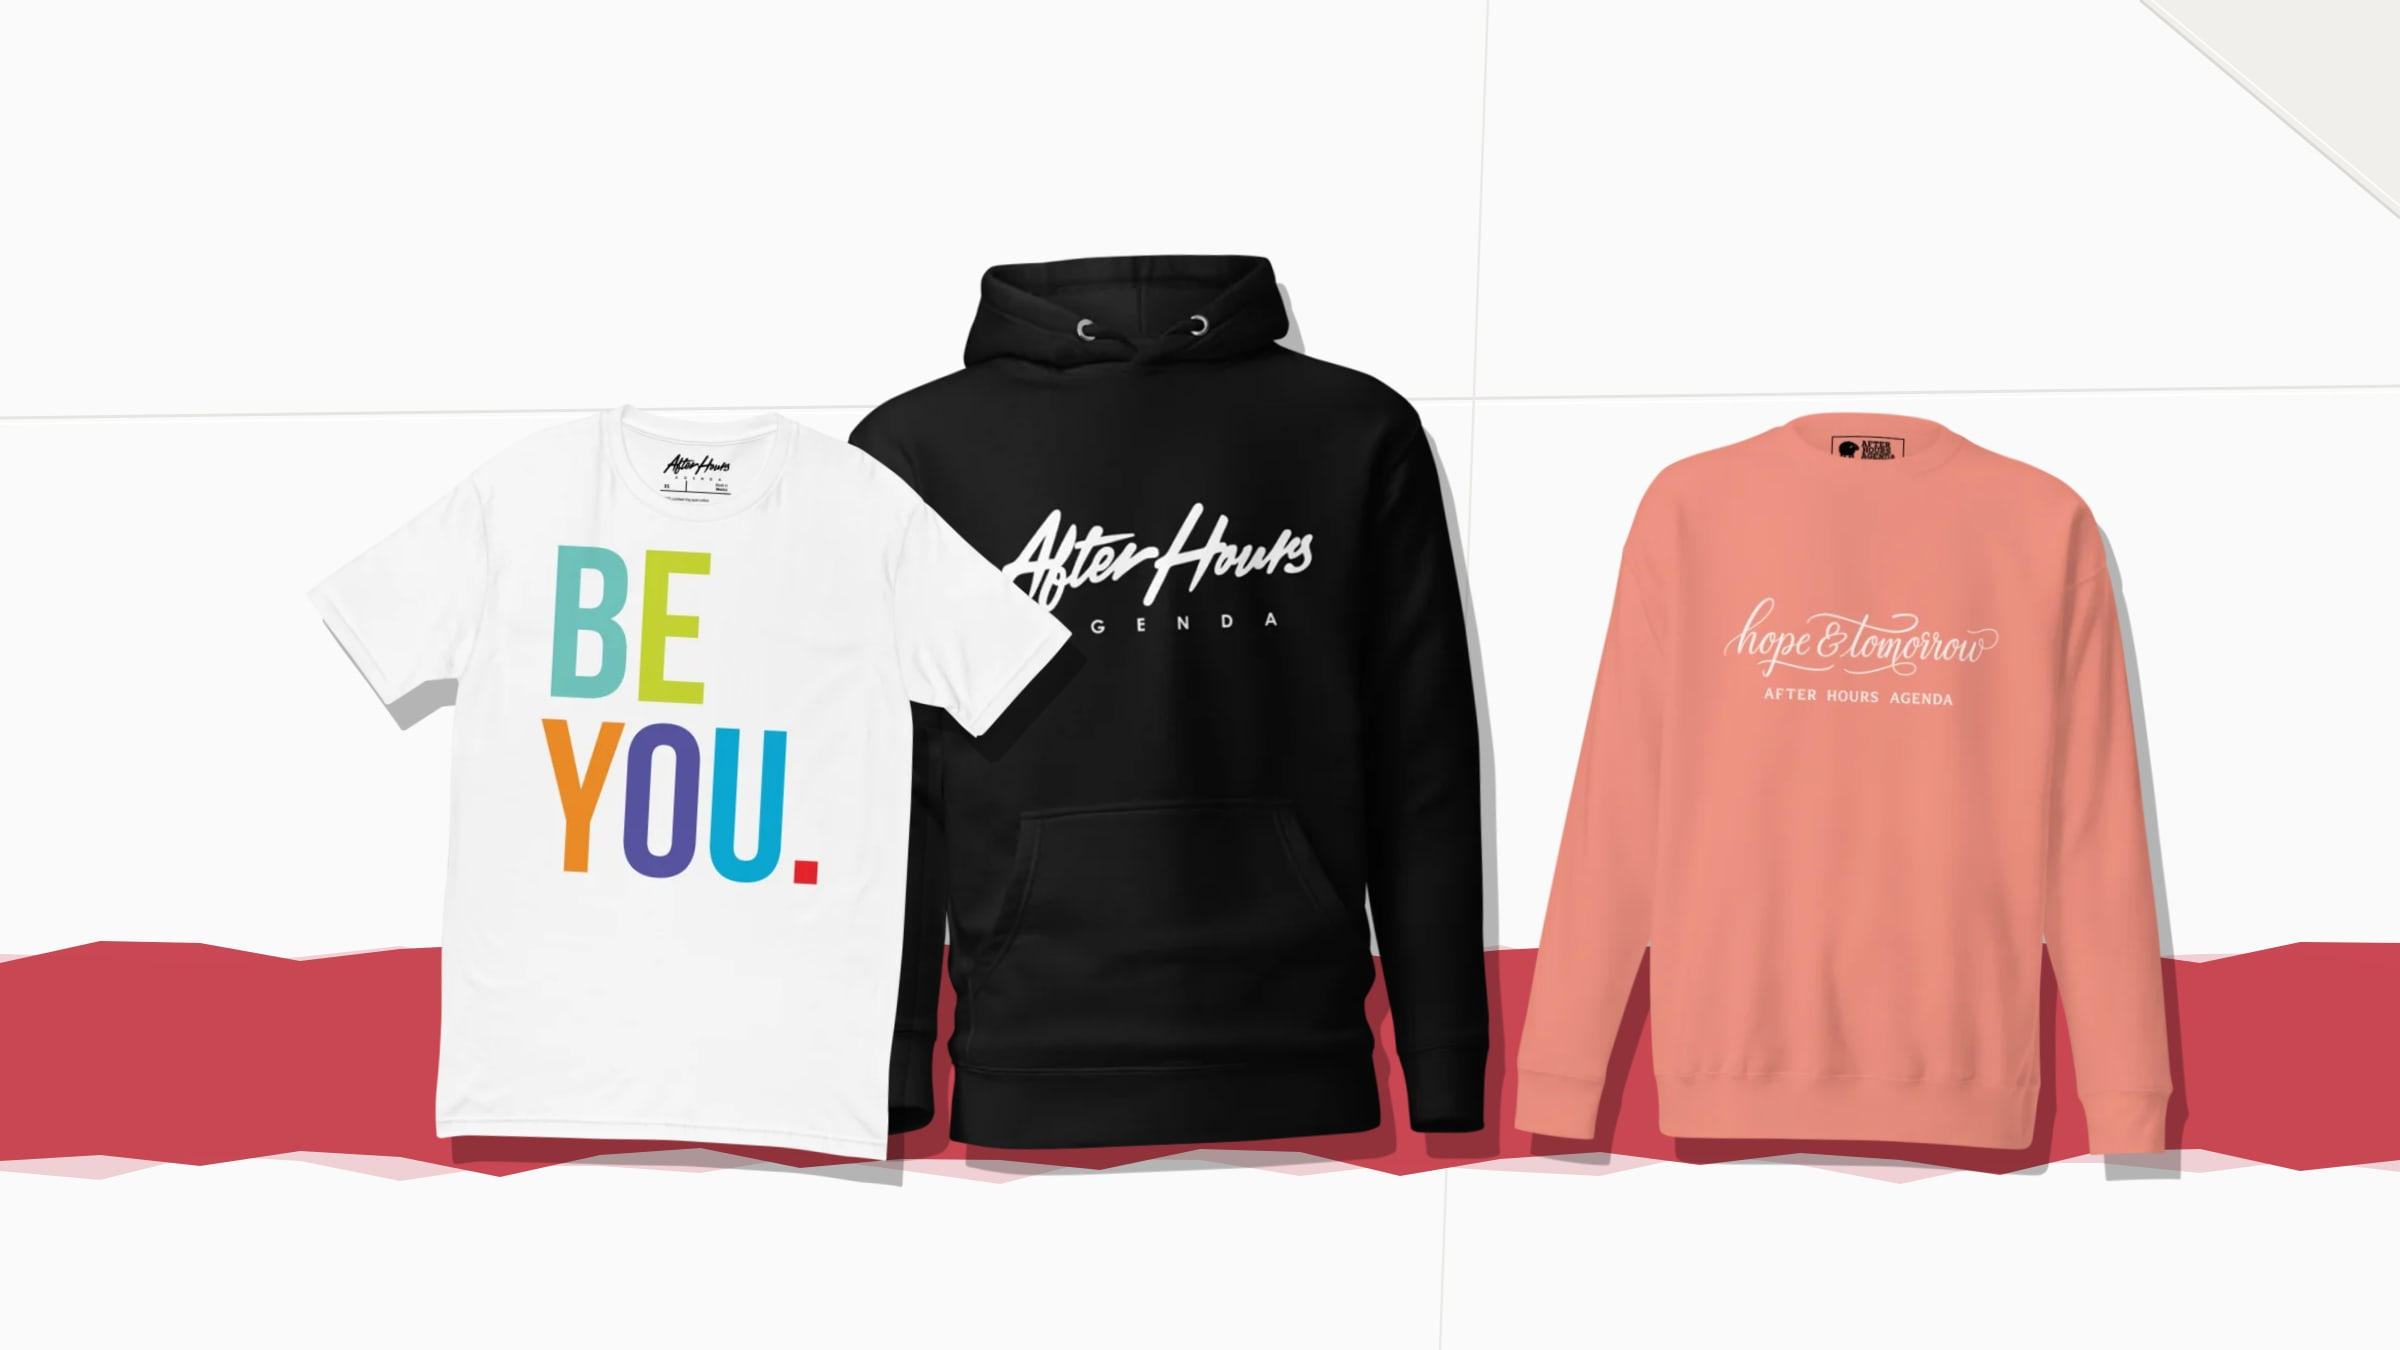
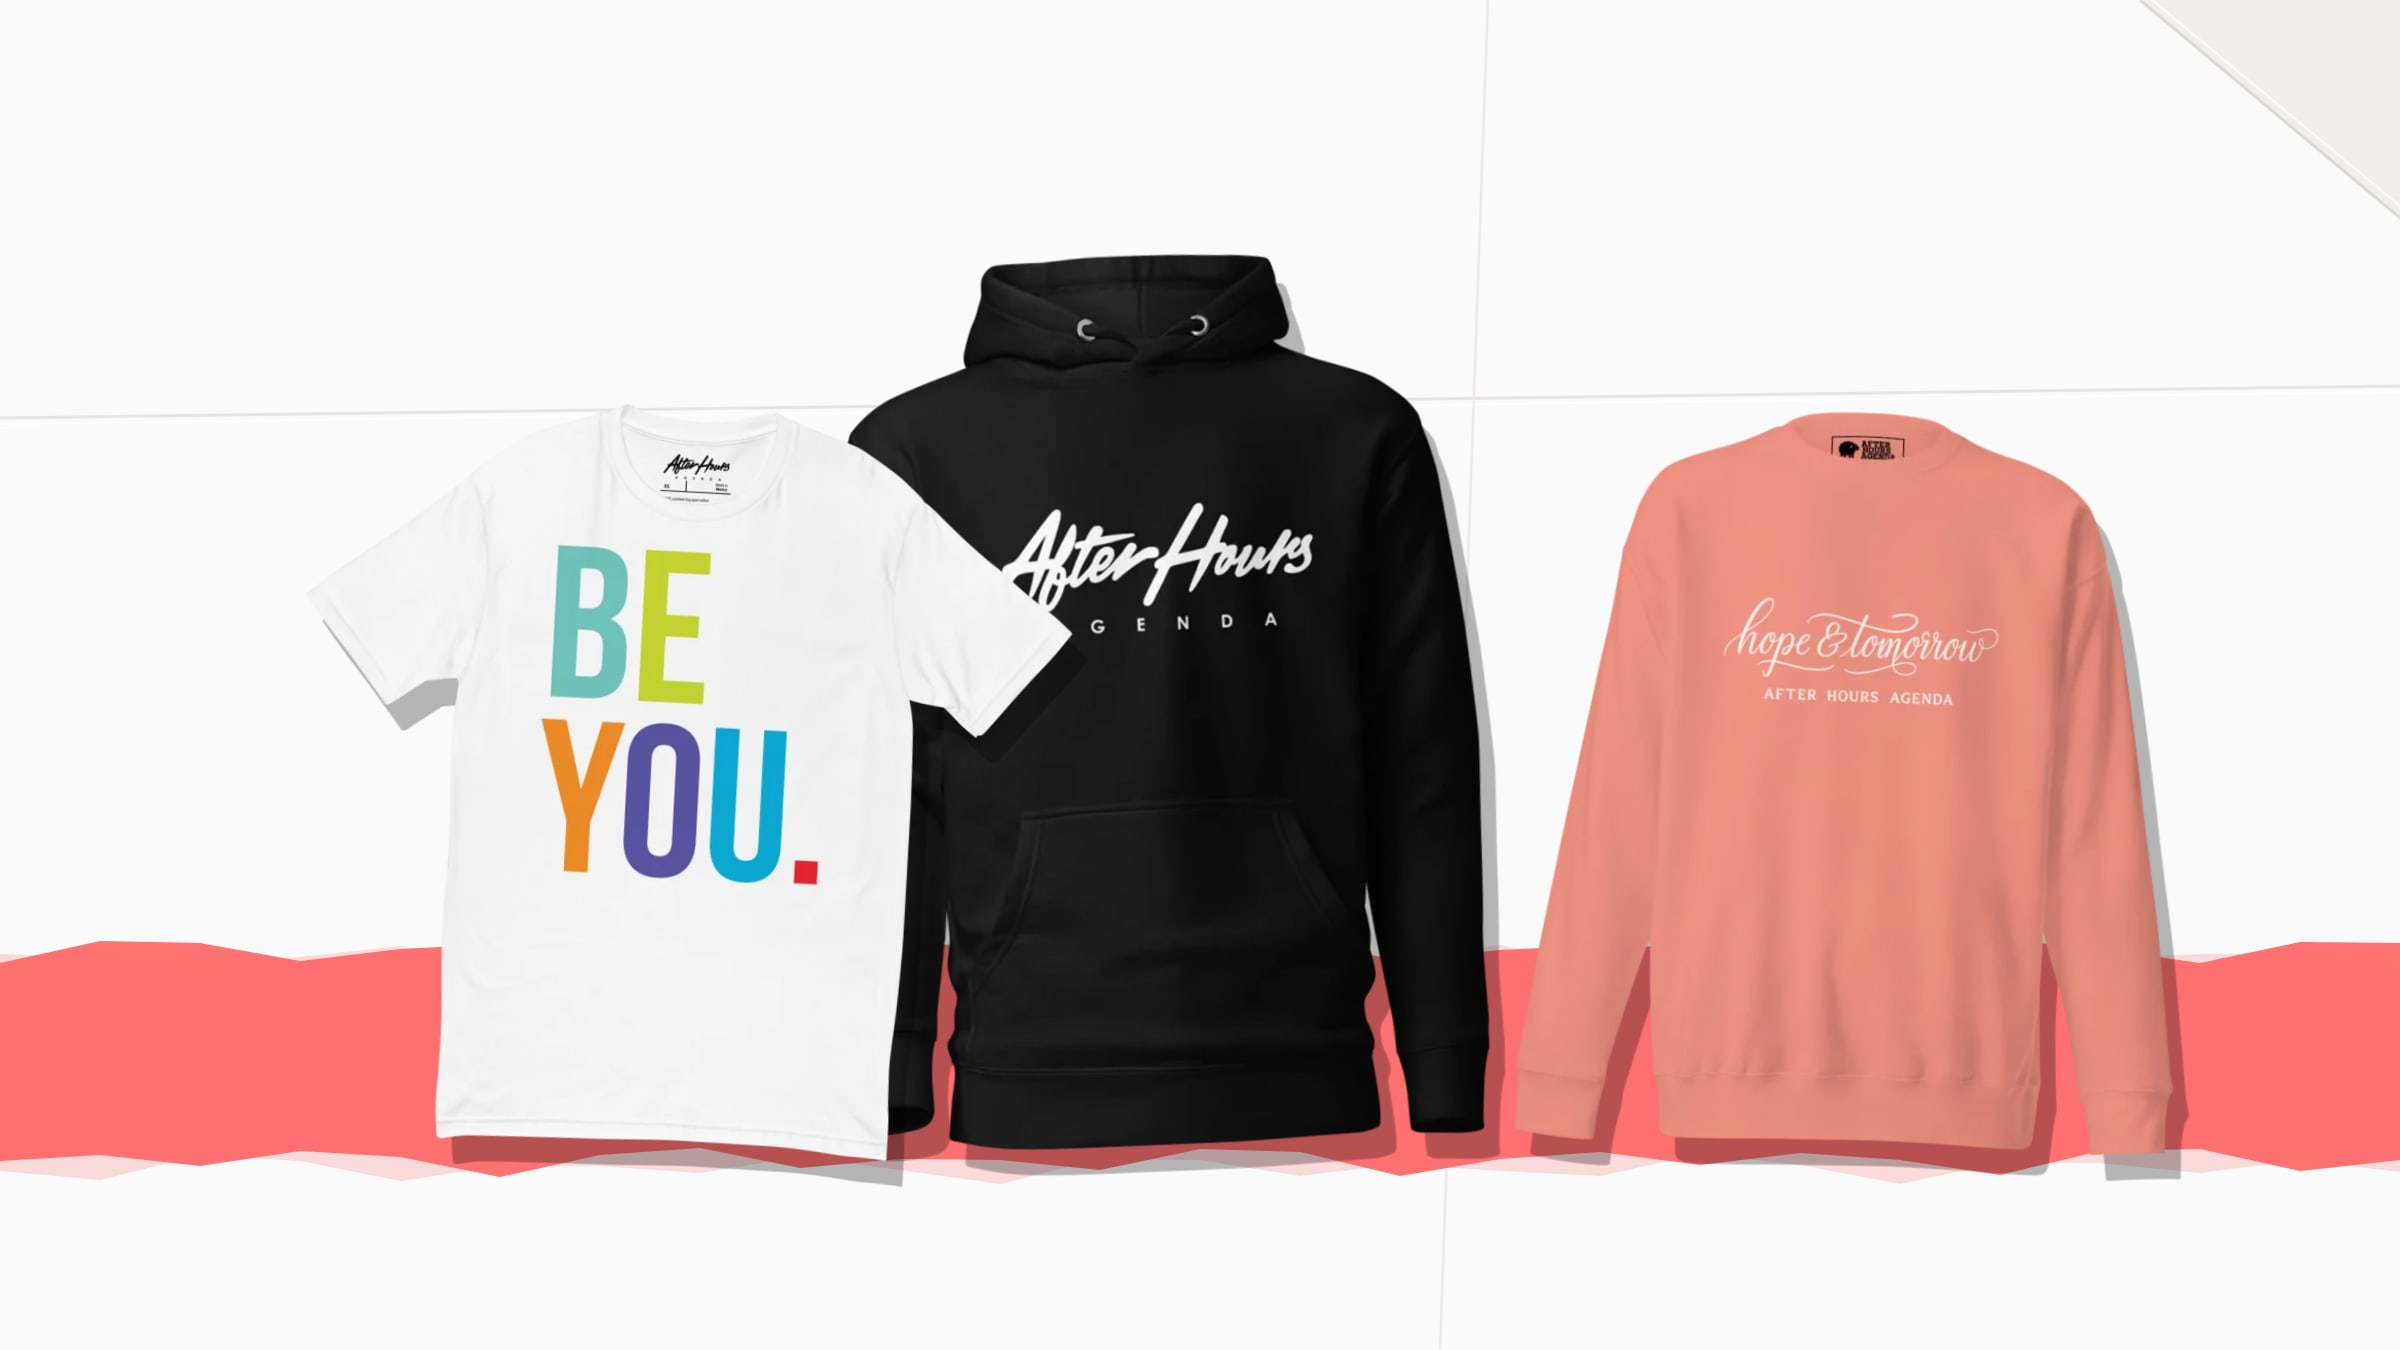
feat(color): restore the rose — Action Rose #CE3D56 (AA) for UI, true rose #FF6B6B campaign strips
- #FF6B6B measures 2.7:1 on paper white, failing WCAG AA for actions, so
  buttons had gone deep crimson; #CE3D56 is the rosiest tone that passes
  (4.55:1 on paper, 4.74:1 under white text) and becomes the action color
- Home and lookbook hero strips regenerated in true Crayon Coral #FF6B6B,
  where artwork use is doctrine-approved

Built with Claude Code (LiFi NYC)
Claude-Session: https://claude.ai/code/session_011zLy4x61UBLurHK8bxQsTy

Changed region(s): [[0.0, 0.6844, 1.0, 0.8711]]

diff --git a/app/globals.css b/app/globals.css
@@ -12,8 +12,9 @@
   --aha-paper: #fafafa;
   --aha-paper-muted: #4a4a4a;
   --aha-line: #b0b0b0;
-  /* Action Coral — single semantic action color (AA on paper white). */
-  --aha-accent: #c83f4d;
+  /* Action Rose — single semantic action color, the rosiest tone that holds
+     WCAG AA on paper white (4.55:1) and under white text (4.74:1). */
+  --aha-accent: #ce3d56;
   /* Crayon Coral — artwork and campaign surfaces only, never text on white. */
   --aha-coral-art: #ff6b6b;
   --aha-sky: #87ceeb;
@@ -21,7 +22,7 @@
   --aha-warm-crease: #f0c987;
   --aha-success: #a8d5ba;
   --aha-warning: #f0c987;
-  --aha-error: #c83f4d;
+  --aha-error: #ce3d56;
 
   /* Semantic Tailwind channels */
   --c-bg: 250 250 250;
@@ -29,10 +30,10 @@
   --c-surface: 255 255 255;
   --c-content: 26 26 26;
   --c-muted: 74 74 74;
-  --c-accent: 200 63 77;
+  --c-accent: 206 61 86;
   --c-success: 168 213 186;
   --c-warning: 240 201 135;
-  --c-error: 200 63 77;
+  --c-error: 206 61 86;
 
   --aha-font-display: var(--font-poppins), Arial, sans-serif;
   --aha-font-body: var(--font-poppins), Arial, sans-serif;